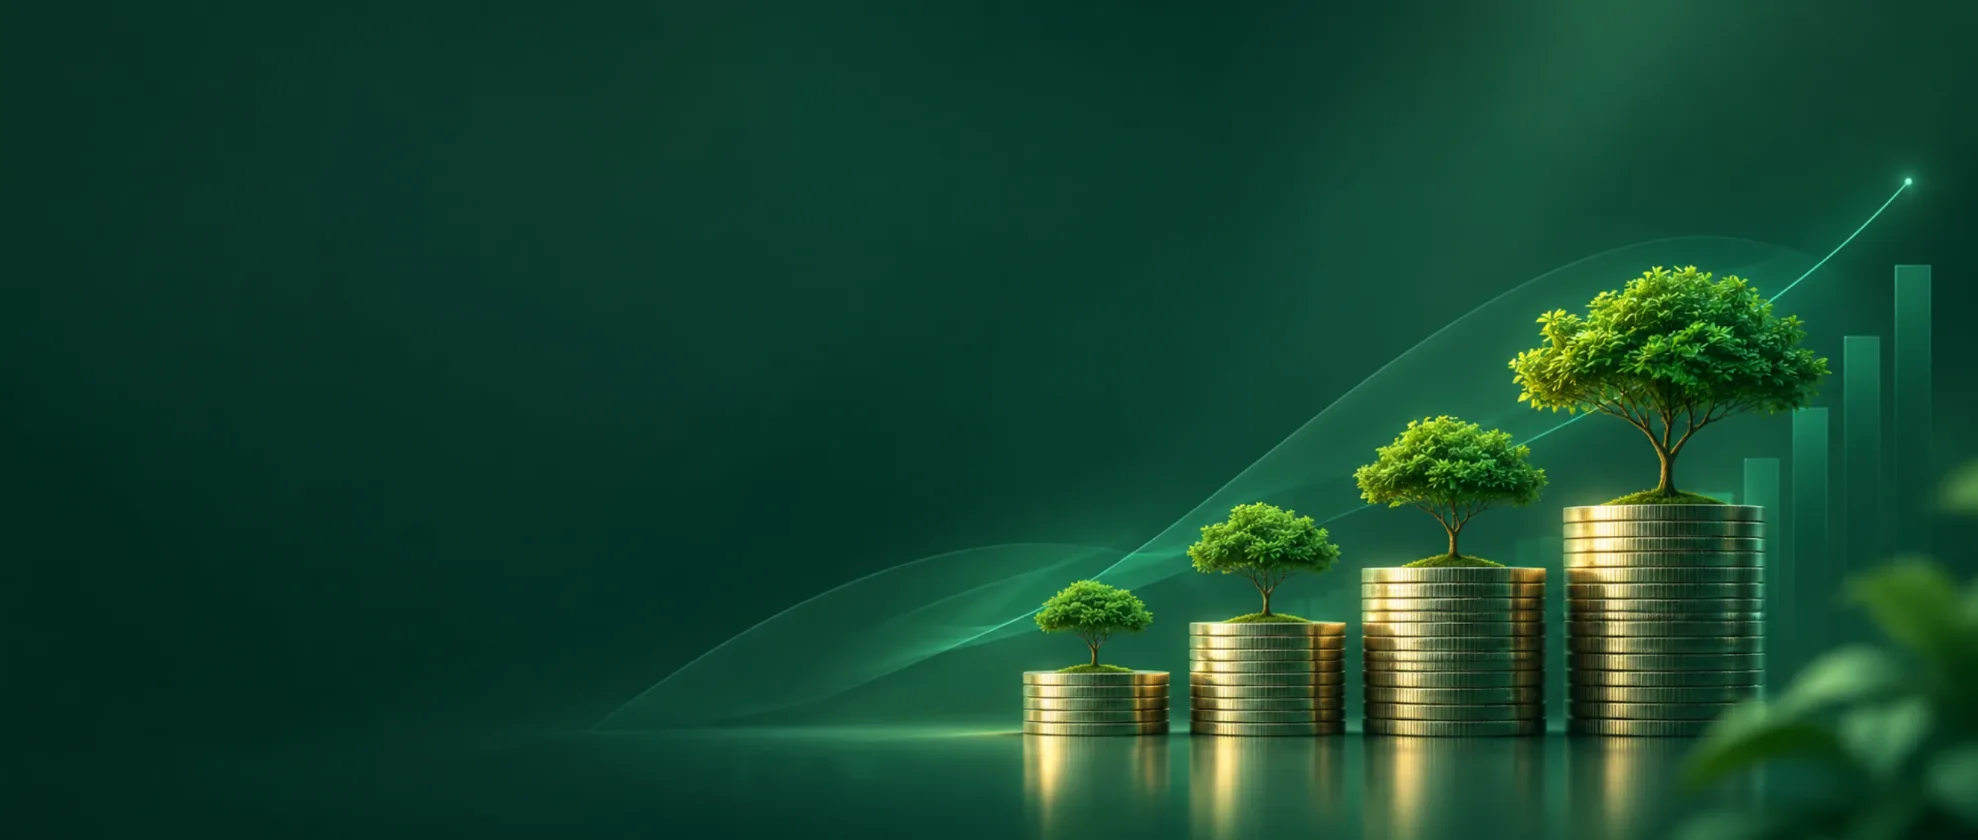
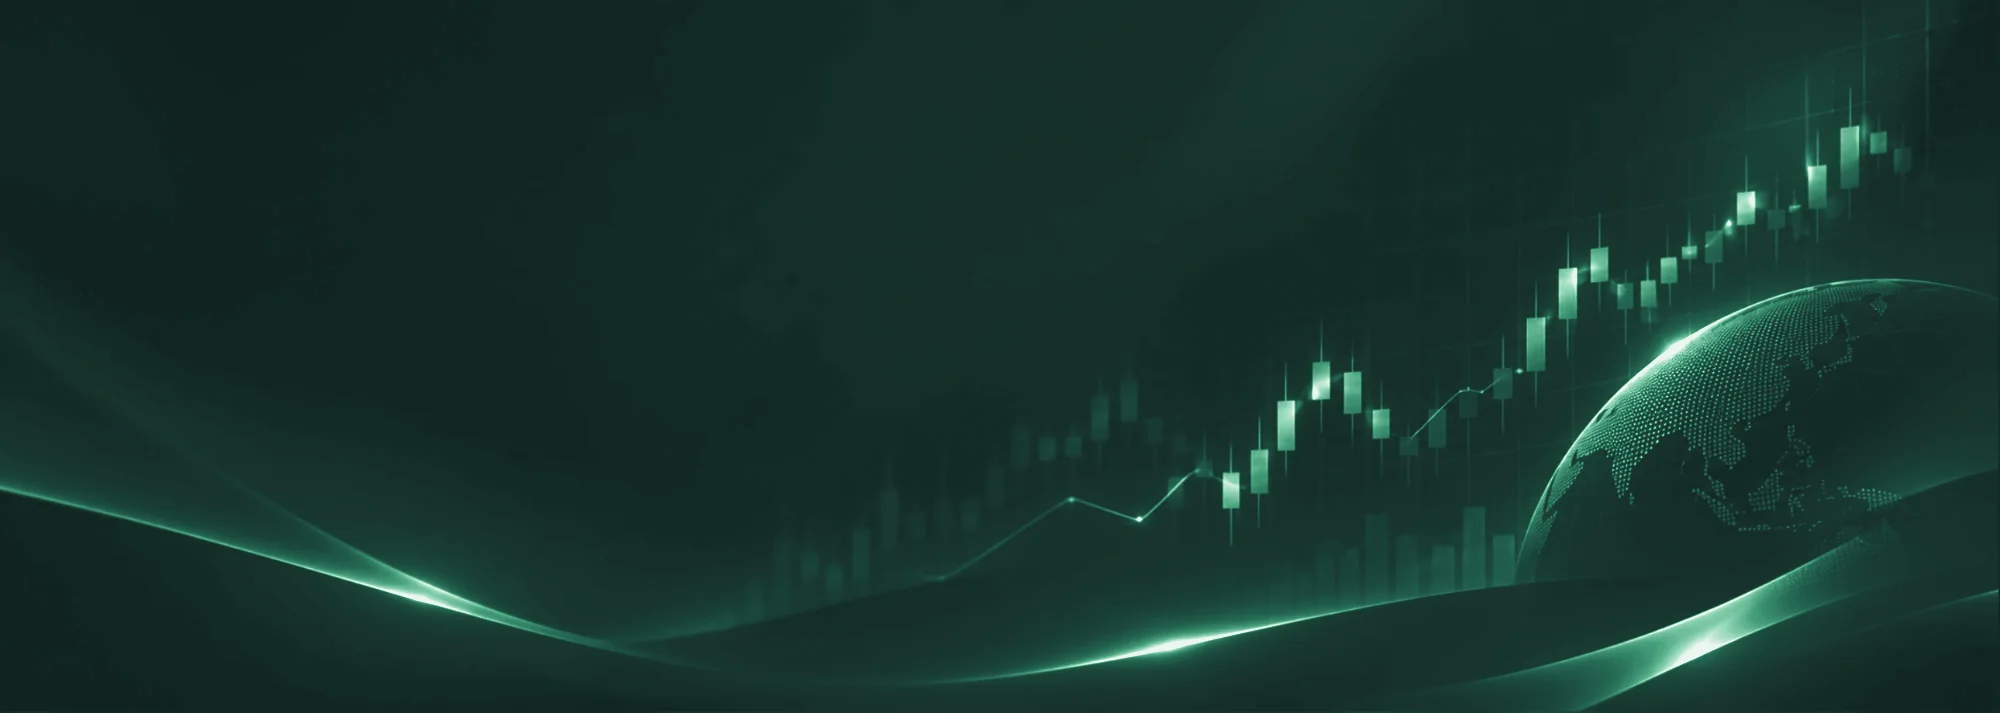
Landing hero: candlestick globe image, recoloured to the brand
The supplied blue market image is gradient-mapped onto the pine and mint
palette (navy to pine, blue to green, highlights to mint) and anchored
bottom-right behind the fade, 34 KB as WebP.

Claude-Session: https://claude.ai/code/session_01TUe7e5PyCywQ7K1EoRjoDH

diff --git a/web_app/frontend/src/components/HeroArt.jsx b/web_app/frontend/src/components/HeroArt.jsx
@@ -75,7 +75,7 @@ export default function HeroArt() {
           src="/hero.webp"
           alt=""
           onError={() => setPhoto(false)}
-          className="hero-photo absolute inset-0 h-full w-full object-cover object-[78%_center] opacity-35 md:opacity-100"
+          className="hero-photo absolute inset-0 h-full w-full object-cover object-[85%_bottom] opacity-35 md:opacity-100"
         />
         {/* keep the text side calm and blend the photo into the band */}
         <div className="absolute inset-0 bg-gradient-to-r from-floor via-floor/60 to-transparent md:via-floor/10" />
